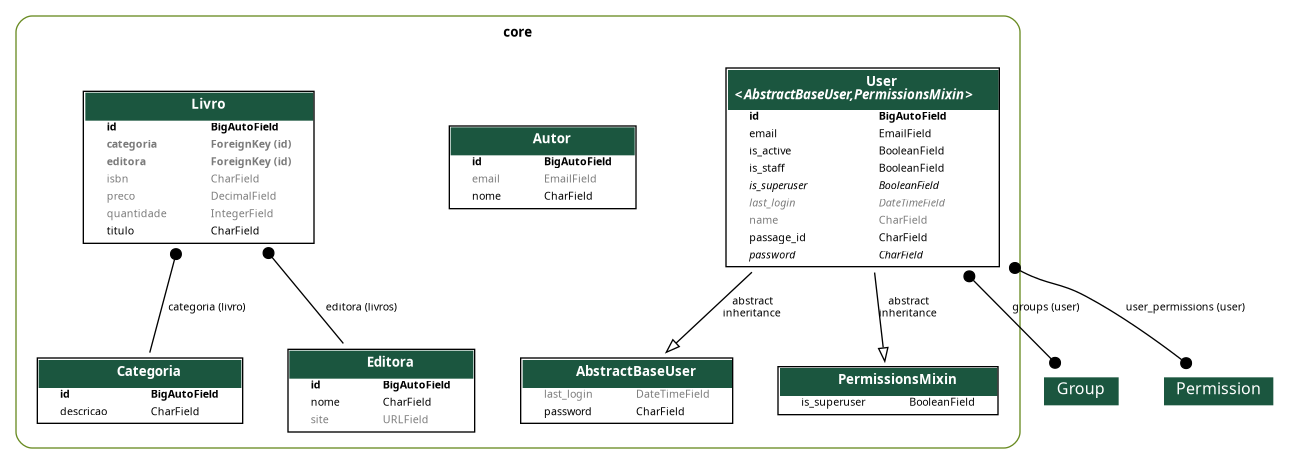
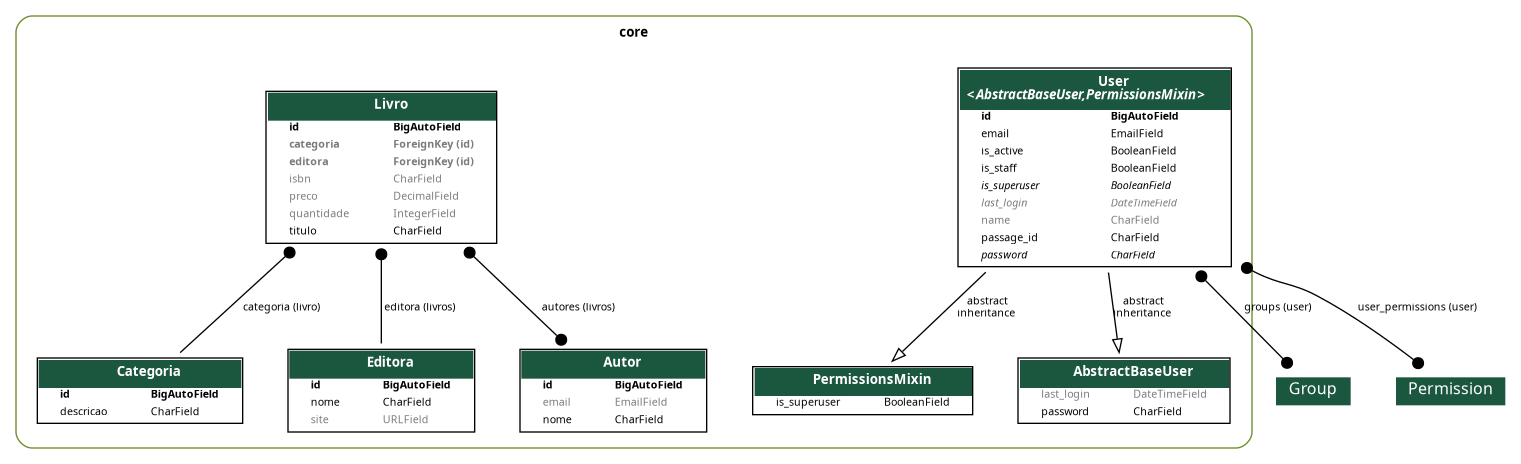
feat: criação de dois serializadores para Livro

diff --git a/core/views/livro.py b/core/views/livro.py
@@ -2,10 +2,15 @@ from rest_framework.viewsets import ModelViewSet
 
 from core.models import Categoria , Editora, Autor, Livro
 
-from core.serializers import CategoriaSerializer, EditoraSerializer, AutorSerializer, LivroSerializer
+from core.serializers import CategoriaSerializer, EditoraSerializer, AutorSerializer, LivroListRetrieveSerializer, LivroSerializer
 
 
 class LivroViewSet(ModelViewSet):
     queryset = Livro.objects.all()
     serializer_class = LivroSerializer
+
+def get_serializer_class(self):
+    if self.action in ['list', 'retrieve']:
+        return LivroListRetrieveSerializer
+    return LivroSerializer
    

diff --git a/core/serializers/livro.py b/core/serializers/livro.py
@@ -1,4 +1,7 @@
+from cryptography.hazmat.primitives.kdf.kbkdf import Mode
+from django.conf.locale import de
 from rest_framework import serializers
+from rest_framework.serializers import ModelSerializer
 
 from core.models import Categoria, Editora, Autor, Livro
 
@@ -6,3 +9,11 @@ class LivroSerializer(serializers.ModelSerializer):
     class Meta:
         model = Livro
         fields = "__all__"
+
+
+
+class LivroListRetrieveSerializer(ModelSerializer):
+    class Meta:
+        model = Livro
+        fields = "__all__"
+        depth = 1

diff --git a/core/migrations/0010_livro_autores.py b/core/migrations/0010_livro_autores.py
@@ -1,0 +1,18 @@
+# Generated by Django 5.1.7 on 2025-04-07 00:37
+
+from django.db import migrations, models
+
+
+class Migration(migrations.Migration):
+
+    dependencies = [
+        ('core', '0009_livro_categoria_livro_editora'),
+    ]
+
+    operations = [
+        migrations.AddField(
+            model_name='livro',
+            name='autores',
+            field=models.ManyToManyField(blank=True, related_name='livros', to='core.autor'),
+        ),
+    ]

diff --git a/core/models/livro.py b/core/models/livro.py
@@ -14,6 +14,9 @@ class Livro(models.Model):
     from .editora import Editora
     editora = models.ForeignKey(
         Editora, on_delete=models.PROTECT, related_name="livros", null=True, blank=True)   
+    
+    from .autor import Autor
+    autores = models.ManyToManyField(Autor, blank=True, related_name="livros")
 
     def __str__(self):
         return f"({self.id }) {self.titulo} ({self.quantidade})"

diff --git a/core/serializers/__init__.py b/core/serializers/__init__.py
@@ -2,4 +2,4 @@ from .user import UserSerializer
 from .categoria import CategoriaSerializer
 from .editora import EditoraSerializer
 from .autor import AutorSerializer
-from .livro import LivroSerializer
+from .livro import LivroListRetrieveSerializer, LivroSerializer
